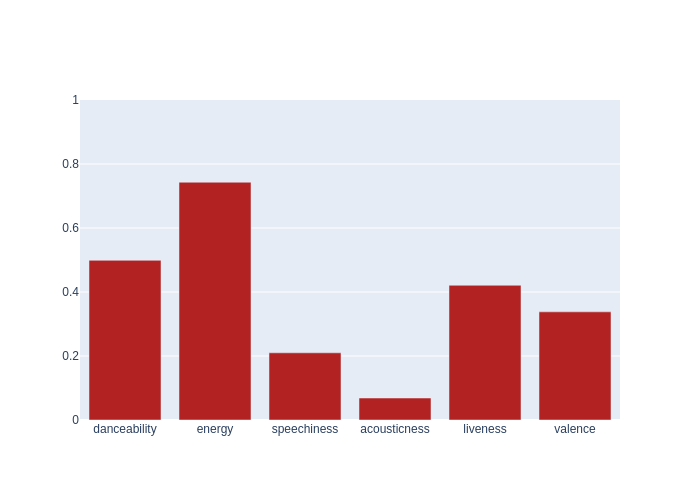
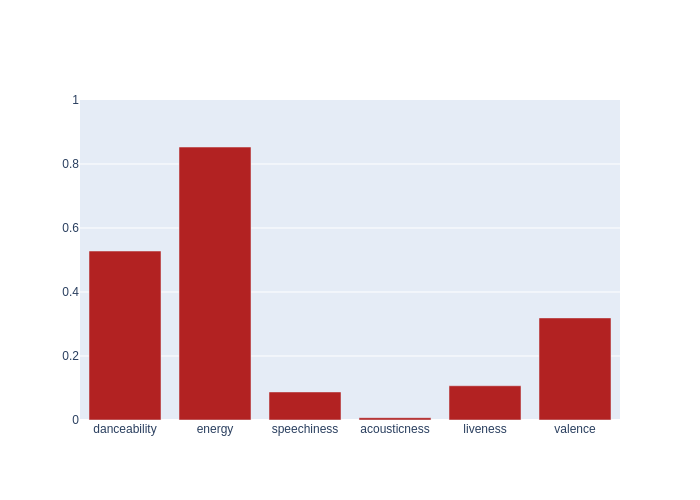
Automated README update

diff --git a/README.md b/README.md
@@ -4,7 +4,7 @@ Automated music metrics for fun, updated hourly.
 
 ## Spotify
 
-- currently listening to **RÜFÜS DU SOL - You Were Right - Louis Futon Remix**
+- currently listening to **SLUMBERJACK - Closure**
 
 - **866** liked songs
 - **136** playlists
